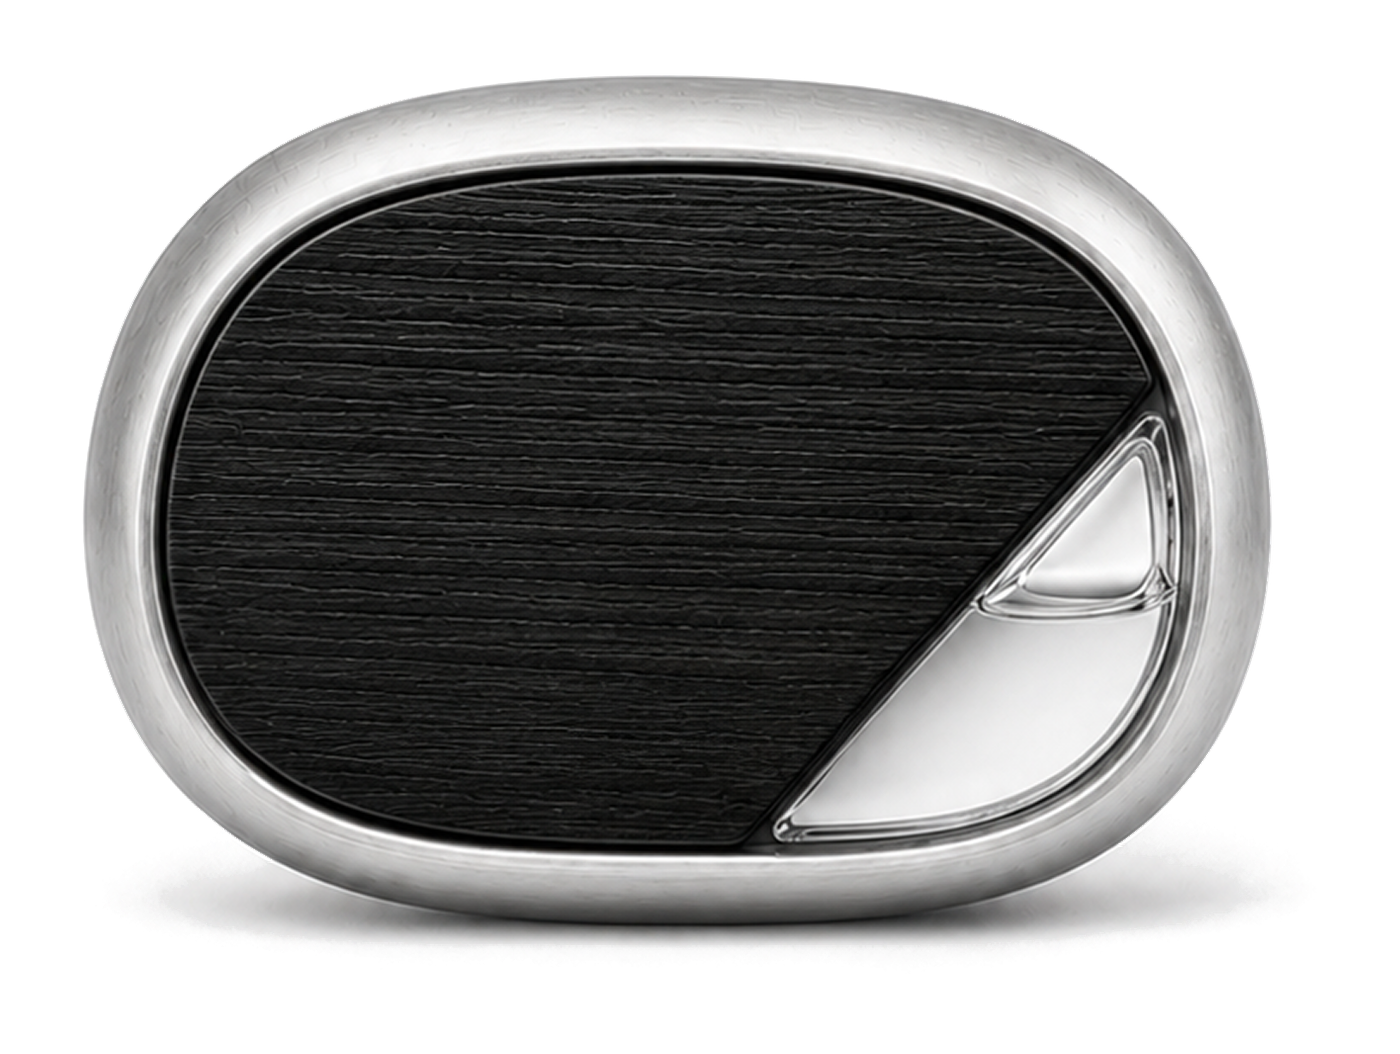
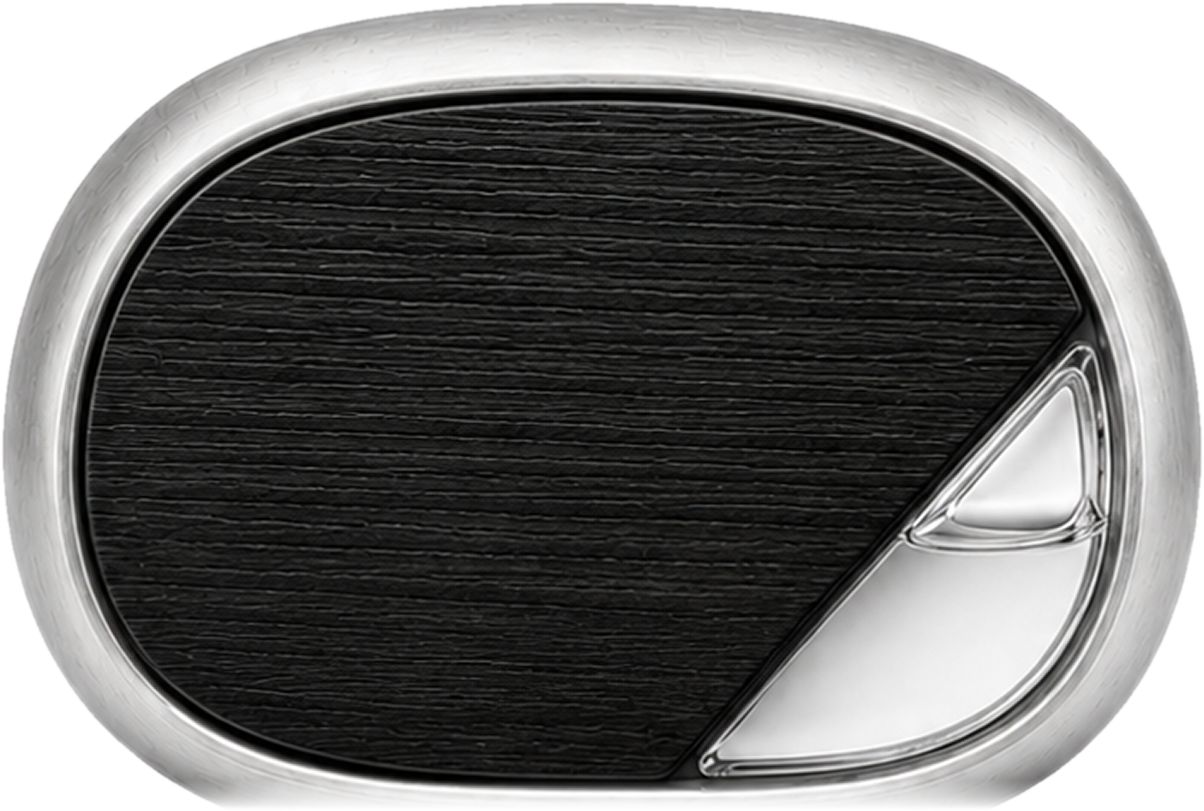
製品画像を完全に切り抜き、影をCSSで作り直す
これまでの切り抜きは、元画像に焼き込まれた白背景用のドロップシャドウを
製品と一緒に残していたため、黒地では製品の下に灰色の溜まりとして見えていた。

製品の底面と接地影は階調的に融合していて明度では分離できないため、
「輪郭の幅は中央から下へ単調に狭くなる」という製品形状の性質を使い、
幅が広がりに転じた行（＝影の裾の始まり）から下を落とす方式にした。
切断面は下端3.5%のフェードで消している。底面は十分暗く黒地に溶けるため、
視覚的な欠損にはならない。

影は .shot の疑似要素で描き直し、接地影（狭く濃い）と
アンビエント（広く薄い）の2層にした。img は必ず .shot で包む。

- tools/cutout.py を書き換え、product-a/b.png を再生成
- CSSの drop-shadow フィルタを廃止
- 表紙・プロダクトページ・TOPの3箇所を .shot 構造に統一

diff --git a/assets/css/book.css b/assets/css/book.css
@@ -153,6 +153,32 @@ body.book {
 /* ロゴ。必ず assets/img/logo-*.svg（Figma書き出しの公式データ）を使う */
 .logo { display: block; width: 100%; height: auto; }
 
+/* 製品画像。元画像に焼き込まれた白背景用の影は切り抜きで除いてあるので、
+   黒地に合う影をここで作る。手前から順に、接地影（::after）と
+   広く薄いアンビエント（::before）の2層。 */
+.shot { position: relative; display: inline-block; line-height: 0; }
+.shot img { position: relative; z-index: 1; display: block; width: 100%; height: auto; }
+.shot::before,
+.shot::after {
+  content: "";
+  position: absolute;
+  left: 50%;
+  transform: translateX(-50%);
+  border-radius: 50%;
+  z-index: 0;
+  pointer-events: none;
+}
+.shot::before {
+  width: 118%; height: 24%; bottom: -10%;
+  background: radial-gradient(closest-side, rgba(0, 0, 0, 0.62), rgba(0, 0, 0, 0) 100%);
+  filter: blur(20px);
+}
+.shot::after {
+  width: 66%; height: 8%; bottom: -2%;
+  background: radial-gradient(closest-side, rgba(0, 0, 0, 0.95), rgba(0, 0, 0, 0) 100%);
+  filter: blur(8px);
+}
+
 /* ---------- 各ページ固有 ---------- */
 
 /* 表紙 */
@@ -162,12 +188,10 @@ body.book {
   display: flex; align-items: center; justify-content: center;
   overflow: hidden;
 }
-.cover__photo img {
-  width: min(62%, 520px);
-  max-height: 62%;
-  object-fit: contain;
+.cover__photo .shot {
+  /* 高さは幅から決まるので、縦に溢れないよう vh でも上限をかける */
+  width: min(62%, 520px, 74vh);
   transform: translateY(-6%);
-  filter: drop-shadow(0 26px 40px rgba(0,0,0,0.55));
 }
 .cover__scrim {
   position: absolute; inset: 0;
@@ -238,12 +262,7 @@ body.book {
   display: flex; align-items: center; justify-content: center;
   min-height: 0;
 }
-.product__figure img {
-  width: 100%; max-width: 420px;
-  max-height: min(46vh, 420px);
-  object-fit: contain;
-  filter: drop-shadow(0 18px 30px rgba(0,0,0,0.5));
-}
+.product__figure .shot { width: min(100%, 420px, 60vh); }
 .product__text { display: flex; flex-direction: column; gap: clamp(12px, 2vh, 20px); }
 .points { border-top: 1px solid var(--hair); }
 .point {
@@ -331,7 +350,7 @@ body.book {
 }
 .choice:active { border-color: var(--ink-45); background: rgba(237, 234, 229, 0.05); }
 .choice__img { display: flex; align-items: center; justify-content: center; height: clamp(150px, 26vh, 260px); }
-.choice__img img { max-width: 100%; max-height: 100%; object-fit: contain; filter: drop-shadow(0 14px 24px rgba(0,0,0,0.5)); }
+.choice__img .shot { width: min(88%, 260px); }
 .choice__k { font-family: var(--latin); font-weight: 300; font-size: clamp(12px, 1.2vw, 14px); letter-spacing: 0.24em; opacity: 0.5; }
 .choice__t { font-family: var(--serif); font-size: clamp(15px, 1.7vw, 20px); letter-spacing: 0.08em; }
 .choice__d { font-size: clamp(11px, 1.1vw, 13px); line-height: 2; letter-spacing: 0.05em; color: var(--ink-60); }

diff --git a/assets/js/book.js b/assets/js/book.js
@@ -35,6 +35,19 @@
   }
   function asset(path) { return base + path; }
 
+  // 製品画像は透過PNG（影は焼き込まれていない）。
+  // 接地影は .shot の疑似要素で描くので、img は必ずこのラッパーに入れる。
+  function shot(cls) {
+    var span = el("span", "shot");
+    var img = el("img");
+    img.src = asset(variant.productImage);
+    img.alt = "SUMI カーディフューザー " + variant.label;
+    add(span, img);
+    var box = el("div", cls);
+    add(box, span);
+    return box;
+  }
+
   // SUMIのロゴは必ずFigmaから書き出した公式SVGを使う。
   // 文字を組んで代用しない（ブランド規定・README参照）。
   function logo(cls) {
@@ -83,11 +96,7 @@
     cover: function (page) {
       var section = el("section", "page cover");
 
-      var photo = el("div", "cover__photo");
-      var img = el("img");
-      img.src = asset(variant.productImage);
-      img.alt = "SUMI カーディフューザー " + variant.label;
-      add(photo, img);
+      var photo = shot("cover__photo");
 
       var inner = el("div", "cover__inner");
       var meta = el("div", "cover__meta");
@@ -201,11 +210,7 @@
       var s = shell(page, i, total);
       var grid = el("div", "product");
 
-      var fig = el("div", "product__figure");
-      var img = el("img");
-      img.src = asset(variant.productImage);
-      img.alt = "SUMI カーディフューザー " + variant.label;
-      add(fig, img);
+      var fig = shot("product__figure");
 
       var text = el("div", "product__text");
       add(text,

diff --git a/index.html b/index.html
@@ -23,14 +23,14 @@
 
   <div class="choices">
     <a class="choice" href="a/">
-      <div class="choice__img"><img src="assets/img/product-a.png" alt="デザイン案 A"></div>
+      <div class="choice__img"><span class="shot"><img src="assets/img/product-a.png" alt="デザイン案 A"></span></div>
       <div class="choice__k">PATTERN A</div>
       <div class="choice__t">デザイン案 A</div>
       <div class="choice__d">木目の面の一角を斜めに切り落とし、鏡面のシルバーをのぞかせる非対称のデザイン。</div>
     </a>
 
     <a class="choice" href="b/">
-      <div class="choice__img"><img src="assets/img/product-b.png" alt="デザイン案 B"></div>
+      <div class="choice__img"><span class="shot"><img src="assets/img/product-b.png" alt="デザイン案 B"></span></div>
       <div class="choice__k">PATTERN B</div>
       <div class="choice__t">デザイン案 B</div>
       <div class="choice__d">全周をシルバーのベゼルで受け、内側に細いリブを刻んだ左右対称のデザイン。</div>

diff --git a/tools/cutout.py b/tools/cutout.py
@@ -1,75 +1,116 @@
-"""白背景の製品レンダリングを透過PNGに変換する。
+"""白背景の製品レンダリングを、製品だけの透過PNGに変換する。
 
-Figma/ChatGPTから書き出した製品画像は白背景のため、黒地のブックにそのまま
-置くと白い四角に見える。背景を透過させ、余白を詰めて書き出す。
+元画像には白背景用のドロップシャドウが焼き込まれている。そのまま切り抜くと
+暗い背景では製品の下に灰色の溜まりとして残ってしまう。
+
+製品の底面と接地影は階調的に融合していて明度では分離できないため、
+「輪郭の幅は中央から下へ単調に狭くなる」という製品形状の性質を使い、
+幅が再び広がり始める行（＝影の裾が始まる位置）から下を落とす。
+切断面は最下部を数%フェードさせて消す。底面は十分暗いため黒地では目立たない。
+
+影は book.css 側で背景に合わせて作り直す。
 
   使い方:  python3 tools/cutout.py assets/img/src/product-a.png assets/img/product-a.png
 """
 import sys
-from PIL import Image
+from PIL import Image, ImageFilter
 
-# 背景(≒253)から製品エッジ(≒235)までを不透明度のグラデーションにする閾値
-TRANSPARENT_AT = 248   # これ以上明るければ完全に透明
-OPAQUE_AT = 232        # これ以下の明るさなら完全に不透明
-PAD_RATIO = 0.06       # トリミング後に残す余白
+OUTLINE_MAX = 200   # 製品の輪郭を拾う明度。鏡面リムの外周までここに収まる
+FLARE_SLACK = 4     # この画素数を超えて幅が広がったら影の裾とみなす
+FADE_RATIO = 0.035  # 切断面を消すための下端フェード（シルエット高さに対する比率）
+FEATHER = 1.1       # 輪郭のぼかし半径（px）
+MAX_WIDTH = 1400    # web用の長辺
 
 
-def build_alpha(rgb, w, h):
+def row_extents(rgb, w, h):
     px = rgb.load()
-    span = TRANSPARENT_AT - OPAQUE_AT
-    alpha = bytearray(w * h)
+    out = []
     for y in range(h):
-        base = y * w
+        left = right = -1
         for x in range(w):
             r, g, b = px[x, y]
             v = r if r < g else g
             if b < v:
                 v = b
-            if v >= TRANSPARENT_AT:
-                a = 0
-            elif v <= OPAQUE_AT:
-                a = 255
-            else:
-                a = int((TRANSPARENT_AT - v) * 255 / span)
-            alpha[base + x] = a
-    return alpha
-
-
-def fill_interior(alpha, w, h):
-    """製品内部の鏡面ハイライト（白に近い）が抜けてしまうのを防ぐため、
-    各行で不透明画素の左端〜右端を塗りつぶす。製品は閉じた一塊なので成立する。"""
-    for y in range(h):
-        base = y * w
-        left = right = -1
-        for x in range(w):
-            if alpha[base + x] >= 250:
+            if v <= OUTLINE_MAX:
                 if left < 0:
                     left = x
                 right = x
-        if left >= 0:
-            for x in range(left, right + 1):
-                alpha[base + x] = 255
-    return alpha
+        out.append(None if left < 0 else (left, right))
+    return out
+
+
+def drop_shadow_flare(extents):
+    """最も広い行から下へたどり、幅が広がりに転じた行以降を捨てる。"""
+    widths = [(e[1] - e[0] + 1) if e else -1 for e in extents]
+    widest = widths.index(max(widths))
+
+    cut = len(extents)
+    for y in range(widest + 1, len(extents)):
+        if widths[y] < 0:
+            cut = y
+            break
+        if widths[y] > widths[y - 1] + FLARE_SLACK:
+            cut = y
+            break
+    for y in range(cut, len(extents)):
+        extents[y] = None
+    return extents
+
+
+def build_mask(extents, w, h):
+    """行ごとの左端〜右端を塗る。製品は凸形状なので、内部の鏡面ハイライト
+    （白に近く閾値から漏れる部分）もこれで過不足なく埋まる。"""
+    mask = bytearray(w * h)
+    for y, e in enumerate(extents):
+        if not e:
+            continue
+        base = y * w
+        for x in range(e[0], e[1] + 1):
+            mask[base + x] = 255
+    return mask
+
+
+def fade_bottom(mask, extents, w):
+    rows = [y for y, e in enumerate(extents) if e]
+    if not rows:
+        return mask
+    top, bottom = rows[0], rows[-1]
+    span = max(int((bottom - top) * FADE_RATIO), 1)
+    for i in range(span):
+        y = bottom - i
+        a = int(255 * (i + 1) / (span + 1))  # 下端ほど薄く
+        base = y * w
+        for x in range(w):
+            if mask[base + x]:
+                mask[base + x] = a
+    return mask
 
 
 def main(src, dst):
     im = Image.open(src).convert("RGB")
     w, h = im.size
-    alpha = fill_interior(build_alpha(im, w, h), w, h)
+
+    extents = drop_shadow_flare(row_extents(im, w, h))
+    mask = build_mask(extents, w, h)
+    mask = fade_bottom(mask, extents, w)
+
+    m = Image.frombytes("L", (w, h), bytes(mask))
+    # 輪郭を1px内側に削ってから軽くぼかす。
+    # 元画像の境界画素は白と混ざっているため、削らないと暗い背景で白い縁が出る。
+    m = m.filter(ImageFilter.MinFilter(3)).filter(ImageFilter.GaussianBlur(FEATHER))
 
     out = im.convert("RGBA")
-    out.putalpha(Image.frombytes("L", (w, h), bytes(alpha)))
+    out.putalpha(m)
 
+    # 余白なしで切り出す。製品の下端＝画像の下端になるので、
+    # CSS側で接地影を置く位置が一意に決まる。
     bbox = out.getbbox()
     if bbox:
-        pad = int(max(bbox[2] - bbox[0], bbox[3] - bbox[1]) * PAD_RATIO)
-        bbox = (max(bbox[0] - pad, 0), max(bbox[1] - pad, 0),
-                min(bbox[2] + pad, w), min(bbox[3] + pad, h))
         out = out.crop(bbox)
 
-    # web用に長辺1400pxへ
-    if out.width > 1400:
-        out = out.resize((1400, round(out.height * 1400 / out.width)), Image.LANCZOS)
+    if out.width > MAX_WIDTH:
+        out = out.resize((MAX_WIDTH, round(out.height * MAX_WIDTH / out.width)), Image.LANCZOS)
 
     out.save(dst, optimize=True)
     print(f"{dst}: {out.size[0]}x{out.size[1]}")
